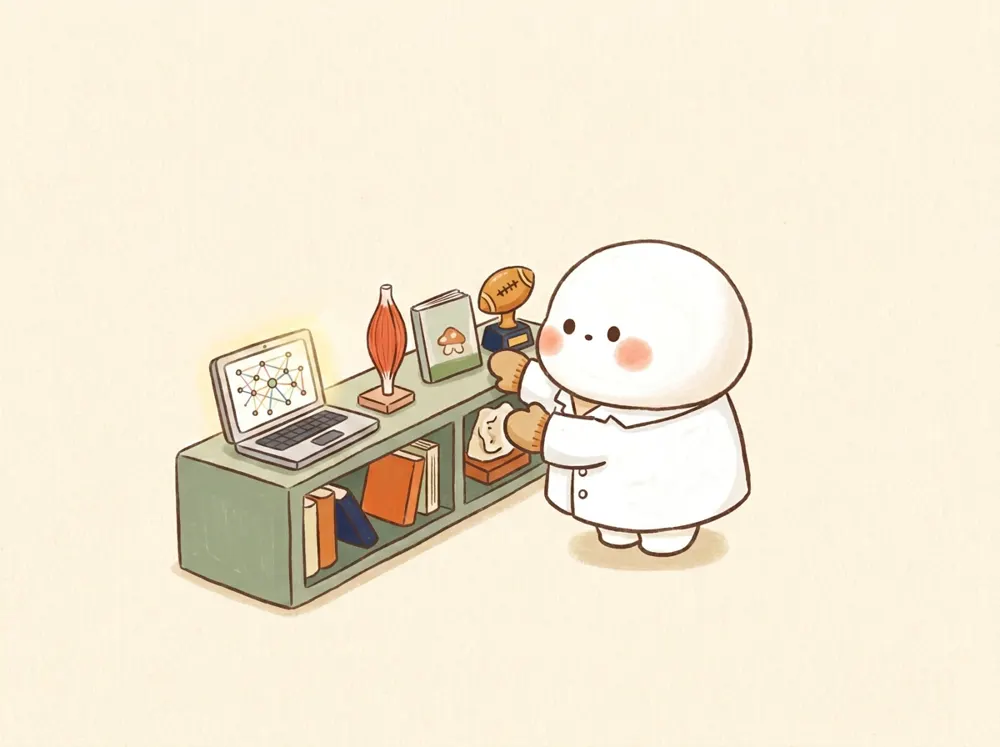
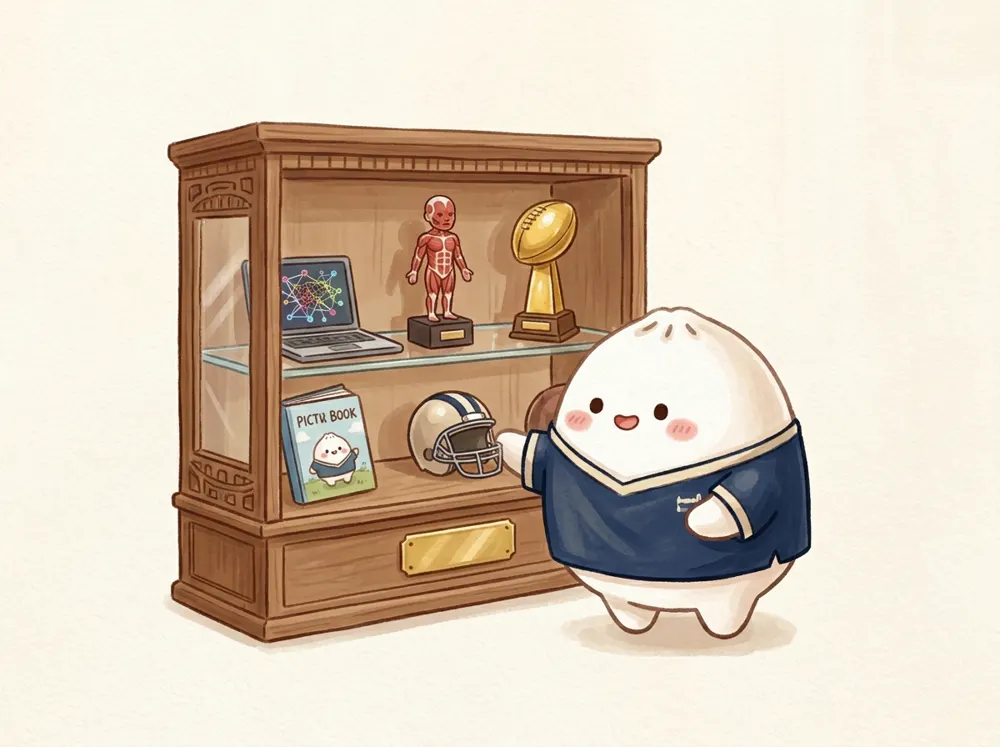
v3.1 美式橄榄球主调：球衣号码章节标、码线标尺、学院草皮区 + PLAY 编号战术卡、GAME DAY 赛程、记分牌数据、端区页脚；插画换成球衣/裁判/更衣室版

diff --git a/index.html b/index.html
@@ -8,7 +8,8 @@
 <link rel="stylesheet" href="assets/stylev1.0.css?v=2.0">
 <link rel="stylesheet" href="assets/welcomev1.0.css?v=2.0">
 <link rel="stylesheet" href="assets/campv1.0.css?v=1.3">
-<link rel="stylesheet" href="assets/theme-v3v1.0.css?v=3.0">
+<link rel="stylesheet" href="assets/theme-v3v1.0.css?v=3.1">
+<link rel="stylesheet" href="assets/theme-footballv1.0.css?v=3.1">
 </head>
 <body>
 <a class="skip" href="#main">跳到主要内容</a>
@@ -145,23 +146,23 @@
 
 <section id="academy" class="section academy">
   <div class="box-head rv">
-    <div><p class="eyebrow">01 / THE ACADEMY</p><h2>一盒，装下整座<em>训练场</em>。</h2></div>
+    <div><p class="eyebrow"><span class="jn">01</span><span class="ek">THE ACADEMY</span></p><h2>一盒，装下整座<em>训练场</em>。</h2></div>
     <p>五个入口，从第一次打开 AI，到做出自己的作品。每一招都有能点开的真实案例。</p>
   </div>
   <div class="bento">
-    <a class="bx w3 rv" href="#camp"><div class="pic"><img src="assets/home/home-campv1.0.webp" alt="团子教练在桌面球场上讲战术" loading="lazy" width="1000" height="750"></div>
+    <a class="bx w3 rv" href="#camp"><div class="pic"><img src="assets/home/home-campv1.0.webp?v=3.1" alt="团子教练在桌面球场上讲战术" loading="lazy" width="1000" height="750"></div>
       <div class="txt"><span class="k">TRAINING CAMP</span><h3>训练营</h3><p>每堂课一个球场比喻、一个急诊或科研场景、一道课堂练习。</p><div class="n"><b data-n="camp">22<small>堂课</small></b><span>开始训练 →</span></div></div></a>
-    <a class="bx w3 rv" href="#lessons"><div class="pic"><img src="assets/home/home-lessonsv1.0.webp" alt="团子医生在投影前讲课" loading="lazy" width="1000" height="750"></div>
+    <a class="bx w3 rv" href="#lessons"><div class="pic"><img src="assets/home/home-lessonsv1.0.webp?v=3.1" alt="团子医生在投影前讲课" loading="lazy" width="1000" height="750"></div>
       <div class="txt"><span class="k">LESSONS</span><h3>课件馆</h3><p>线下工作坊和线上课的示范路线，投屏即可开讲。</p><div class="n"><b data-n="lessons">5<small>条路线</small></b><span>看课件 →</span></div></div></a>
-    <a class="bx w2 rv" href="#gallery"><div class="pic"><img src="assets/home/home-galleryv1.0.webp" alt="团子把作品摆上书架" loading="lazy" width="1000" height="750"></div>
+    <a class="bx w2 rv" href="#gallery"><div class="pic"><img src="assets/home/home-galleryv1.0.webp?v=3.1" alt="团子把作品摆上书架" loading="lazy" width="1000" height="750"></div>
       <div class="txt"><span class="k">GALLERY</span><h3>作品馆</h3><p>我在 GitHub 公开的项目，很多可以课上直接打开。</p><div class="n"><b data-n="projects">28<small>个作品</small></b><span>逛一逛 →</span></div></div></a>
-    <a class="bx w2 rv" href="#concepts"><div class="pic"><img src="assets/home/home-gearv1.0.webp" alt="团子打开装满 AI 工具的储物柜" loading="lazy" width="1000" height="750"></div>
+    <a class="bx w2 rv" href="#concepts"><div class="pic"><img src="assets/home/home-gearv1.0.webp?v=3.1" alt="团子打开装满 AI 工具的储物柜" loading="lazy" width="1000" height="750"></div>
       <div class="txt"><span class="k">GLOSSARY · GEAR</span><h3>战术词典 · 装备库</h3><p>必懂概念配球场比喻，常用工具写清怎么用、小心什么。</p><div class="n"><b data-n="concepts">23<small>个概念</small></b><span>查词典 →</span></div></div></a>
-    <a class="bx w2 rv" href="#library"><div class="pic"><img src="assets/home/home-libraryv1.0.webp" alt="团子在录像室看比赛回放" loading="lazy" width="1000" height="750"></div>
+    <a class="bx w2 rv" href="#library"><div class="pic"><img src="assets/home/home-libraryv1.0.webp?v=3.1" alt="团子在录像室看比赛回放" loading="lazy" width="1000" height="750"></div>
       <div class="txt"><span class="k">FILM ROOM</span><h3>录像室</h3><p>好友课程与优质资源，按主题整理，想深入就点进去。</p><div class="n"><b data-n="library">24<small>节延伸课</small></b><span>去看看 →</span></div></div></a>
   </div>
   <div class="news rv">
-    <div class="news-head"><h3>最近更新</h3><span>为 10 月 31 日梅斯线下工作坊准备</span></div>
+    <div class="news-head"><h3><span class="gd">GAME DAY</span>赛程 · 最近更新</h3><span>为 10 月 31 日梅斯线下工作坊准备</span></div>
     <div class="news-row">
       <a class="nw" href="lessons/medsci-2dayv1.0.html"><i>课纲</i><span><b>AI 进医院、进实验室、进家门 · 两天工作坊</b><small>10 个模块，讲练交替 · 2026-10-27</small></span></a>
       <a class="nw" href="lessons/medsci-onepagev1.0.html"><i>投屏</i><span><b>一页纸课纲：开场直接投屏</b><small>D1 教学 · D2 科研与孩子 · 2026-10-27</small></span></a>
@@ -171,14 +172,14 @@
 </section>
 
 <section id="playbook" class="section">
-  <p class="eyebrow">02 / PLAYBOOK</p>
+  <p class="eyebrow"><span class="jn">02</span><span class="ek">PLAYBOOK</span></p>
   <h2>AI 使用策略 · 五档战术路线</h2>
   <p class="sub">像橄榄球推进码数一样，一档一档往前推。点击任一档，作品馆只显示这一档的示范作品。</p>
   <ol class="levels" id="levels"></ol>
 </section>
 
 <section id="concepts" class="section">
-  <p class="eyebrow">03 / GLOSSARY</p>
+  <p class="eyebrow"><span class="jn">03</span><span class="ek">GLOSSARY</span></p>
   <h2>战术词典 · <span data-n="concepts">23</span> 个必懂 AI 概念</h2>
   <p class="sub">每个概念一句话讲清楚，再配一个橄榄球比喻。按 L0–L4 排列，跟着档位学；点“深入学”跳到好友的完整课件。</p>
   <div class="filters" role="toolbar" aria-label="按档位看概念" id="conceptFilters"></div>
@@ -186,14 +187,14 @@
 </section>
 
 <section id="gear" class="section">
-  <p class="eyebrow">04 / GEAR</p>
+  <p class="eyebrow"><span class="jn">04</span><span class="ek">GEAR</span></p>
   <h2>装备库 · 常用 AI 工具怎么选</h2>
   <p class="sub">不求全，只列课上真正会用到的。每件装备写清楚：擅长什么、医生怎么用、要小心什么。</p>
   <div class="gear" id="gearGrid"></div>
 </section>
 
 <section id="gallery" class="section">
-  <p class="eyebrow">05 / GALLERY</p>
+  <p class="eyebrow"><span class="jn">05</span><span class="ek">GALLERY</span></p>
   <h2>作品馆</h2>
   <p class="sub">全部来自我的 GitHub 公开项目。<b>在线演示</b>可以课上直接打开；其余是源码和文档。</p>
   <div class="filters" role="toolbar" aria-label="按板块筛选" id="filters"></div>
@@ -202,7 +203,7 @@
 </section>
 
 <section id="lessons" class="section">
-  <p class="eyebrow">06 / LESSONS</p>
+  <p class="eyebrow"><span class="jn">06</span><span class="ek">LESSONS</span></p>
   <h2>课件馆 · 示范课路线</h2>
   <p class="sub">线上线下课都按同一条主线讲，面向医生、护士、科研人员、年轻父母和社会工作者。先看一个完整实战案例，再按路线学。</p>
   <article class="case-feature" id="case-picturebook">
@@ -224,7 +225,7 @@
 </section>
 
 <section id="camp" class="section camp">
-  <p class="eyebrow">07 / TRAINING CAMP</p>
+  <p class="eyebrow"><span class="jn">07</span><span class="ek">TRAINING CAMP</span></p>
   <h2>丁医生的 AI 训练营 · <em><span data-n="camp">22</span> 堂战术课</em></h2>
   <p class="sub">每堂课一个主题，配一个球场比喻、一个急诊或科研里的真实场景、一道课堂练习。10 到 20 分钟一堂，按顺序练，也可以挑着练。</p>
   <div class="camp-tracks" id="campTracks"></div>
@@ -239,7 +240,7 @@
 </div>
 
 <section id="library" class="section">
-  <p class="eyebrow">08 / FILM ROOM</p>
+  <p class="eyebrow"><span class="jn">08</span><span class="ek">FILM ROOM</span></p>
   <h2>延伸学习 · 录像室</h2>
   <p class="sub" id="libCredit"></p>
   <div class="filters" role="toolbar" aria-label="按主题筛选课程" id="libFilters"></div>
@@ -249,7 +250,7 @@
 <section id="safety" class="section safety">
   <div class="sec-art">
   <div>
-  <p class="eyebrow">09 / SAFETY</p>
+  <p class="eyebrow"><span class="jn">09</span><span class="ek">SAFETY</span></p>
   <h2>AI 可以跑路线，<em>判断留给人。</em></h2>
   <div class="rules">
     <article><span>01</span><h3>患者隐私停在门外</h3><p>任何真实病历、影像、身份信息都不进入公共 AI。公开仓库只放代码与模拟数据。</p></article>
@@ -258,12 +259,12 @@
     <article><span>04</span><h3>失败即停</h3><p>证据不足时，宁可让 AI 说“查不到”，也不要让它编一个看似合理的答案。</p></article>
   </div>
   </div>
-  <figure class="rv"><img src="assets/home/home-safetyv1.0.webp" alt="团子用放大镜核对 AI 递来的报告" loading="lazy" width="1000" height="750"></figure>
+  <figure class="rv"><img src="assets/home/home-safetyv1.0.webp?v=3.1" alt="团子用放大镜核对 AI 递来的报告" loading="lazy" width="1000" height="750"></figure>
   </div>
 </section>
 
 <section id="toolbox" class="section">
-  <p class="eyebrow">10 / TOOLBOX</p>
+  <p class="eyebrow"><span class="jn">10</span><span class="ek">TOOLBOX</span></p>
   <h2>开源工具箱</h2>
   <p class="sub">我收藏并在用的他人开源项目（fork），课上作为“装备库”介绍，和我自己的作品分开。</p>
   <div class="tools" id="tools"></div>
@@ -271,9 +272,9 @@
 
 <section id="about" class="section about">
   <div class="sec-art">
-  <figure class="rv"><img src="assets/home/home-coachv1.0.webp" alt="团子教练站在球场边挥手" loading="lazy" width="1000" height="750"></figure>
+  <figure class="rv"><img src="assets/home/home-coachv1.0.webp?v=3.1" alt="团子教练站在球场边挥手" loading="lazy" width="1000" height="750"></figure>
   <div>
-    <p class="eyebrow">11 / COACH</p>
+    <p class="eyebrow"><span class="jn">11</span><span class="ek">COACH</span></p>
     <h2>丁海祥 · Haixiang Ding, MD</h2>
     <p>急诊创伤外科主治医师，苏州大学临床医学博士在读。研究方向：放射性骨骼肌损伤、骨质疏松。把临床问题、教学经验和开源实践放在同一张战术板上，帮助医护人员从“想学 AI”走到“能用、用对”。</p>
     <div class="cta">
@@ -287,6 +288,7 @@
 </main>
 
 <footer class="foot">
+  <div class="endzone" aria-hidden="true"><span>TUANZI</span><span>AI ACADEMY</span></div>
   <p>团子 AI 学院 · Learn AI. Verify Everything. Build for Care.</p>
   <p class="muted" id="updated"></p>
   <p class="muted">背景音乐：“Unity” Kevin MacLeod (<a href="https://incompetech.com" target="_blank" rel="noopener">incompetech.com</a>) · <a href="https://creativecommons.org/licenses/by/4.0/" target="_blank" rel="noopener">CC BY 4.0</a></p>

diff --git a/assets/theme-footballv1.0.css b/assets/theme-footballv1.0.css
@@ -1,0 +1,75 @@
+/* v3.1 · 美式橄榄球主调：草皮 + 粉笔码线 + 球衣号码 + 记分牌，布局参考 OiOi 的"一盒学院" */
+:root{
+  --turf:#1d5a3a;--turf2:#174a30;--chalk:rgba(255,255,255,.78);--navy:#14213d;--orange:#e8641b;--gold:#f2b134;
+  --varsity:"Arial Black","Helvetica Neue",Impact,"PingFang SC","Microsoft YaHei",sans-serif;
+}
+.btn.primary{background:var(--orange);color:#fff}
+.btn.primary:hover{background:#c24f0f}
+
+/* 球衣号码式章节标 */
+.section .eyebrow{display:flex;align-items:center;gap:12px;margin-bottom:10px}
+.eyebrow .jn{font-family:var(--varsity);font-size:2.6rem;line-height:.9;letter-spacing:0;color:transparent;-webkit-text-stroke:2px var(--orange);text-shadow:3px 3px 0 rgba(232,100,27,.18);font-weight:900}
+.eyebrow .ek{display:inline-flex;align-items:center;gap:8px;font-size:.74rem;letter-spacing:.22em;color:var(--navy);font-weight:800}
+.eyebrow .ek::before{content:"";width:22px;height:13px;border-radius:50%;background:#8a4b22;box-shadow:inset 0 0 0 1.5px #5d2f12;background-image:linear-gradient(90deg,transparent 45%,#fff 45% 55%,transparent 55%)}
+
+/* 每个章节顶部一条码线标尺 */
+.section{position:relative}
+.section::before{content:"";position:absolute;left:0;right:0;top:0;height:14px;pointer-events:none;opacity:.5;
+  background:repeating-linear-gradient(90deg,var(--line) 0 2px,transparent 2px 24px),repeating-linear-gradient(90deg,#c9b99d 0 2px,transparent 2px 120px);
+  background-size:auto 7px,auto 14px;background-repeat:repeat-x;background-position:0 0,0 0}
+
+/* 记分牌：首页数据 */
+.stats{display:inline-flex;gap:0;background:#111;border-radius:16px;padding:10px;box-shadow:0 14px 34px rgba(0,0,0,.25),inset 0 0 0 2px #2b2b2b}
+.stats li{padding:8px 18px;color:#c9c2b4;font-size:.72rem;letter-spacing:.12em;text-align:center;border-right:1px solid #2c2c2c}
+.stats li:last-child{border-right:0}
+.stats b{font-family:"SFMono-Regular",Menlo,Consolas,monospace;font-size:2rem;color:var(--gold);text-shadow:0 0 12px rgba(242,177,52,.55);background:#000;border-radius:6px;padding:2px 10px;margin-bottom:6px;display:block}
+
+/* 01 学院：整块草皮 */
+.academy{background:
+  repeating-linear-gradient(90deg,transparent 0 calc(10% - 2px),var(--chalk) calc(10% - 2px) 10%),
+  repeating-linear-gradient(0deg,rgba(255,255,255,.035) 0 60px,transparent 60px 120px),
+  linear-gradient(180deg,var(--turf),var(--turf2))!important;color:#fff;background-size:100% 100%,100% 100%,100% 100%}
+.academy::before{display:none}
+.academy .box-head h2{color:#fff}.academy .box-head p{color:#d9e8dd}
+.academy .eyebrow .ek{color:#fff}
+.academy .eyebrow .jn{-webkit-text-stroke-color:#fff;text-shadow:3px 3px 0 rgba(0,0,0,.25)}
+.academy h2 em{color:var(--gold)}
+.bento{counter-reset:play}
+.bx{counter-increment:play;border:0;box-shadow:0 18px 40px rgba(0,0,0,.28)}
+.bx::after{content:"PLAY 0" counter(play);position:absolute;top:12px;left:12px;font:800 .68rem/1 var(--varsity);letter-spacing:.14em;color:var(--navy);background:var(--gold);padding:6px 10px;border-radius:999px;box-shadow:0 2px 0 rgba(0,0,0,.2)}
+.bx .txt{border-top:3px dashed #e7d9c2}
+.bx .n b{font-family:var(--varsity);color:var(--navy)}
+.bx:hover .n span{color:var(--orange)}
+.news-head h3{color:#fff;display:flex;align-items:center;gap:10px}
+.news-head span{color:#cfe2d4}
+.gd{font:800 .66rem/1 var(--varsity);letter-spacing:.16em;background:var(--orange);color:#fff;padding:6px 10px;border-radius:4px}
+.nw{position:relative;border:0;border-radius:14px;padding-left:22px;box-shadow:0 10px 24px rgba(0,0,0,.22)}
+.nw::before{content:"";position:absolute;left:8px;top:10px;bottom:10px;border-left:2px dotted #d8c7aa}
+.nw i{background:var(--navy)}
+.nw:hover{transform:translateY(-3px) rotate(-.4deg)}
+
+/* 战术路线：档位卡做成"码数推进" */
+.levels button{border-top:0;border-left:5px solid var(--turf)}
+.levels button[aria-pressed=true]{border-left-color:var(--orange)}
+.levels .lv{font-family:var(--varsity)}
+
+/* 训练营、安全边界加草地底纹 */
+.camp{background:linear-gradient(180deg,#eef3ea,#e4ecdf)!important}
+.safety .rules article{border-top:4px solid var(--navy)}
+.safety .rules article:nth-child(2){border-top-color:var(--orange)}
+.safety .rules article:nth-child(3){border-top-color:var(--turf)}
+.safety .rules article:nth-child(4){border-top-color:var(--gold)}
+.rules span{font-family:var(--varsity)}
+
+/* 卡片徽章 */
+.badge.lv{background:var(--orange)}.badge.live{background:var(--turf)}
+.chip[aria-pressed=true]{background:var(--turf);border-color:var(--turf)}
+
+/* 页脚：端区 */
+.foot{position:relative;overflow:hidden;background:repeating-linear-gradient(135deg,var(--navy) 0 26px,#18284a 26px 52px);padding-top:0}
+.endzone{display:flex;justify-content:center;gap:4vw;padding:42px 4vw 18px;border-bottom:3px solid rgba(255,255,255,.65);margin-bottom:24px}
+.endzone span{font:900 clamp(1.6rem,6vw,4.6rem)/1 var(--varsity);letter-spacing:.06em;color:transparent;-webkit-text-stroke:2px rgba(255,255,255,.85)}
+.endzone span:last-child{-webkit-text-stroke-color:var(--orange)}
+
+@media (max-width:620px){.eyebrow .jn{font-size:2rem}.stats{display:flex;flex-wrap:wrap}.stats li{flex:1 1 40%;border-right:0}.endzone{flex-direction:column;align-items:center;gap:6px}}
+@media (prefers-reduced-motion:reduce){.nw:hover{transform:none}}
